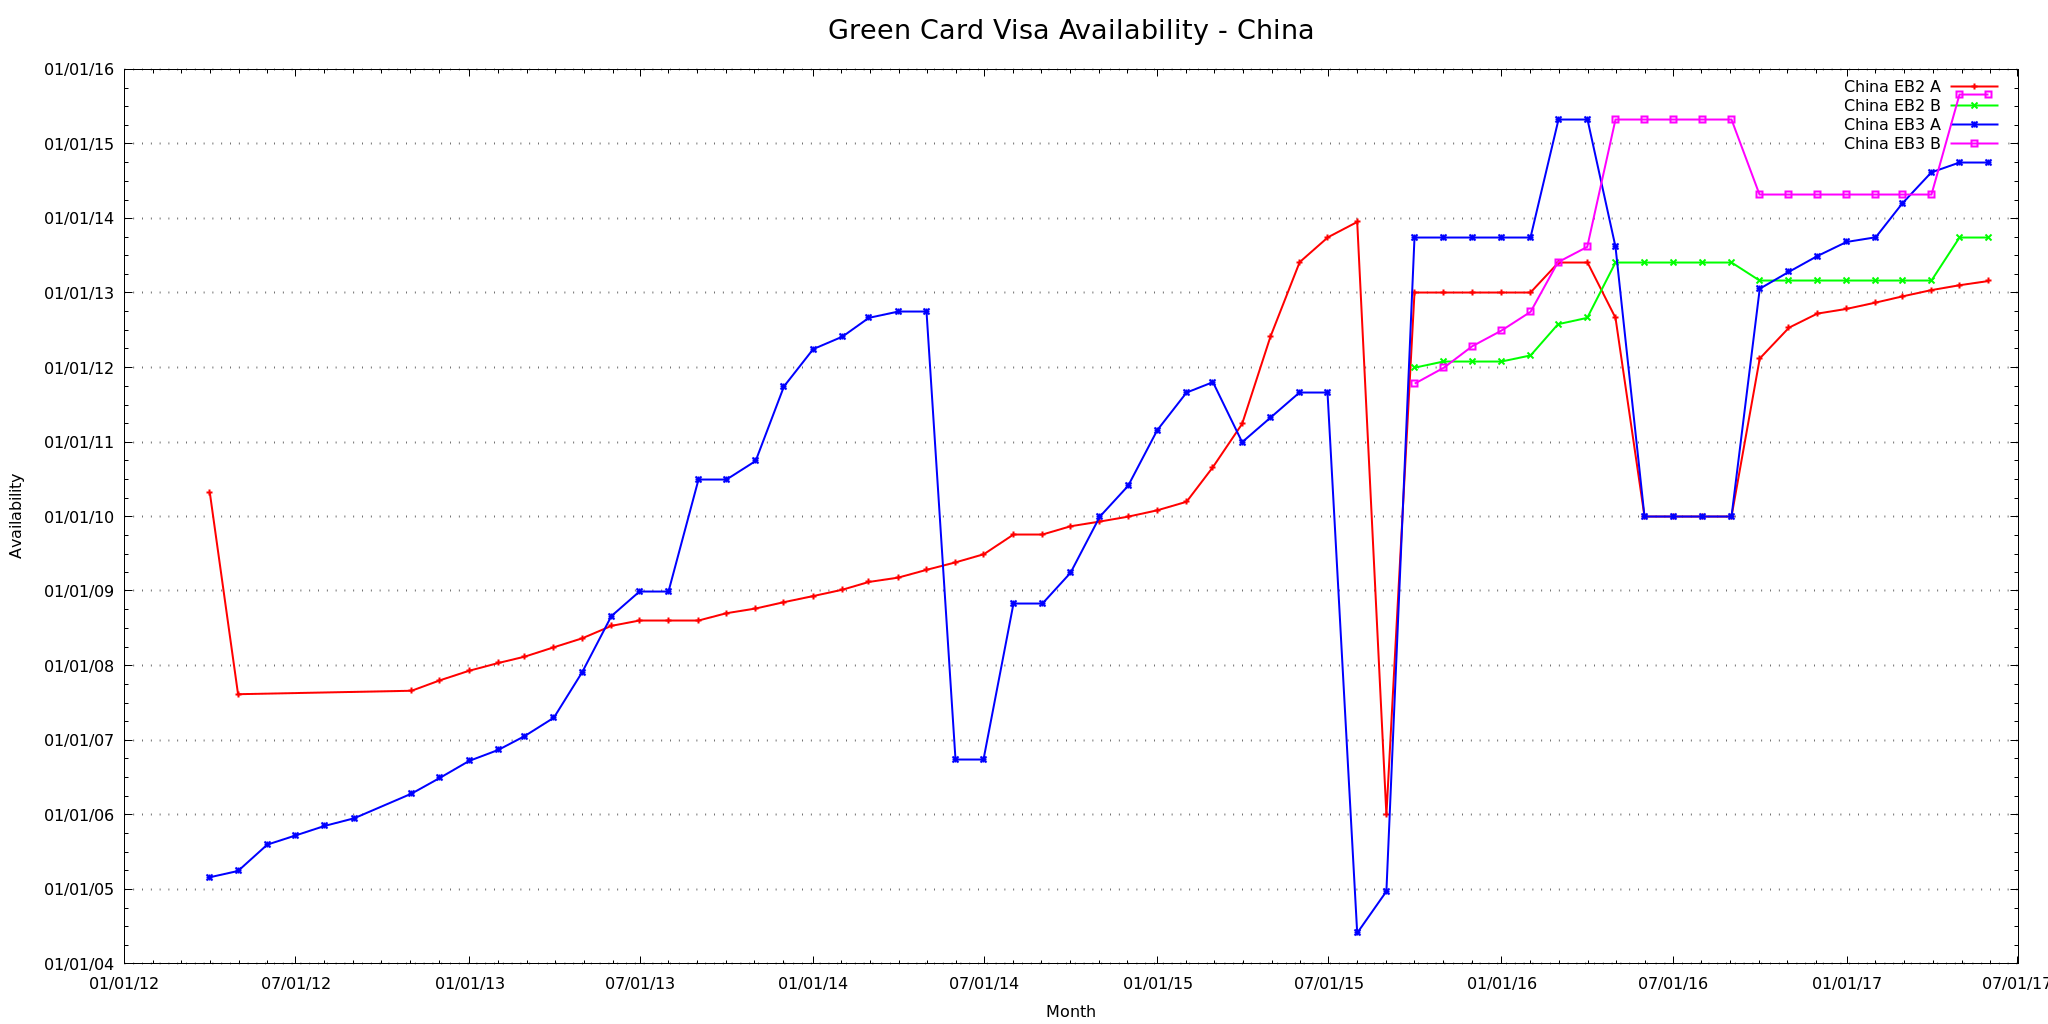
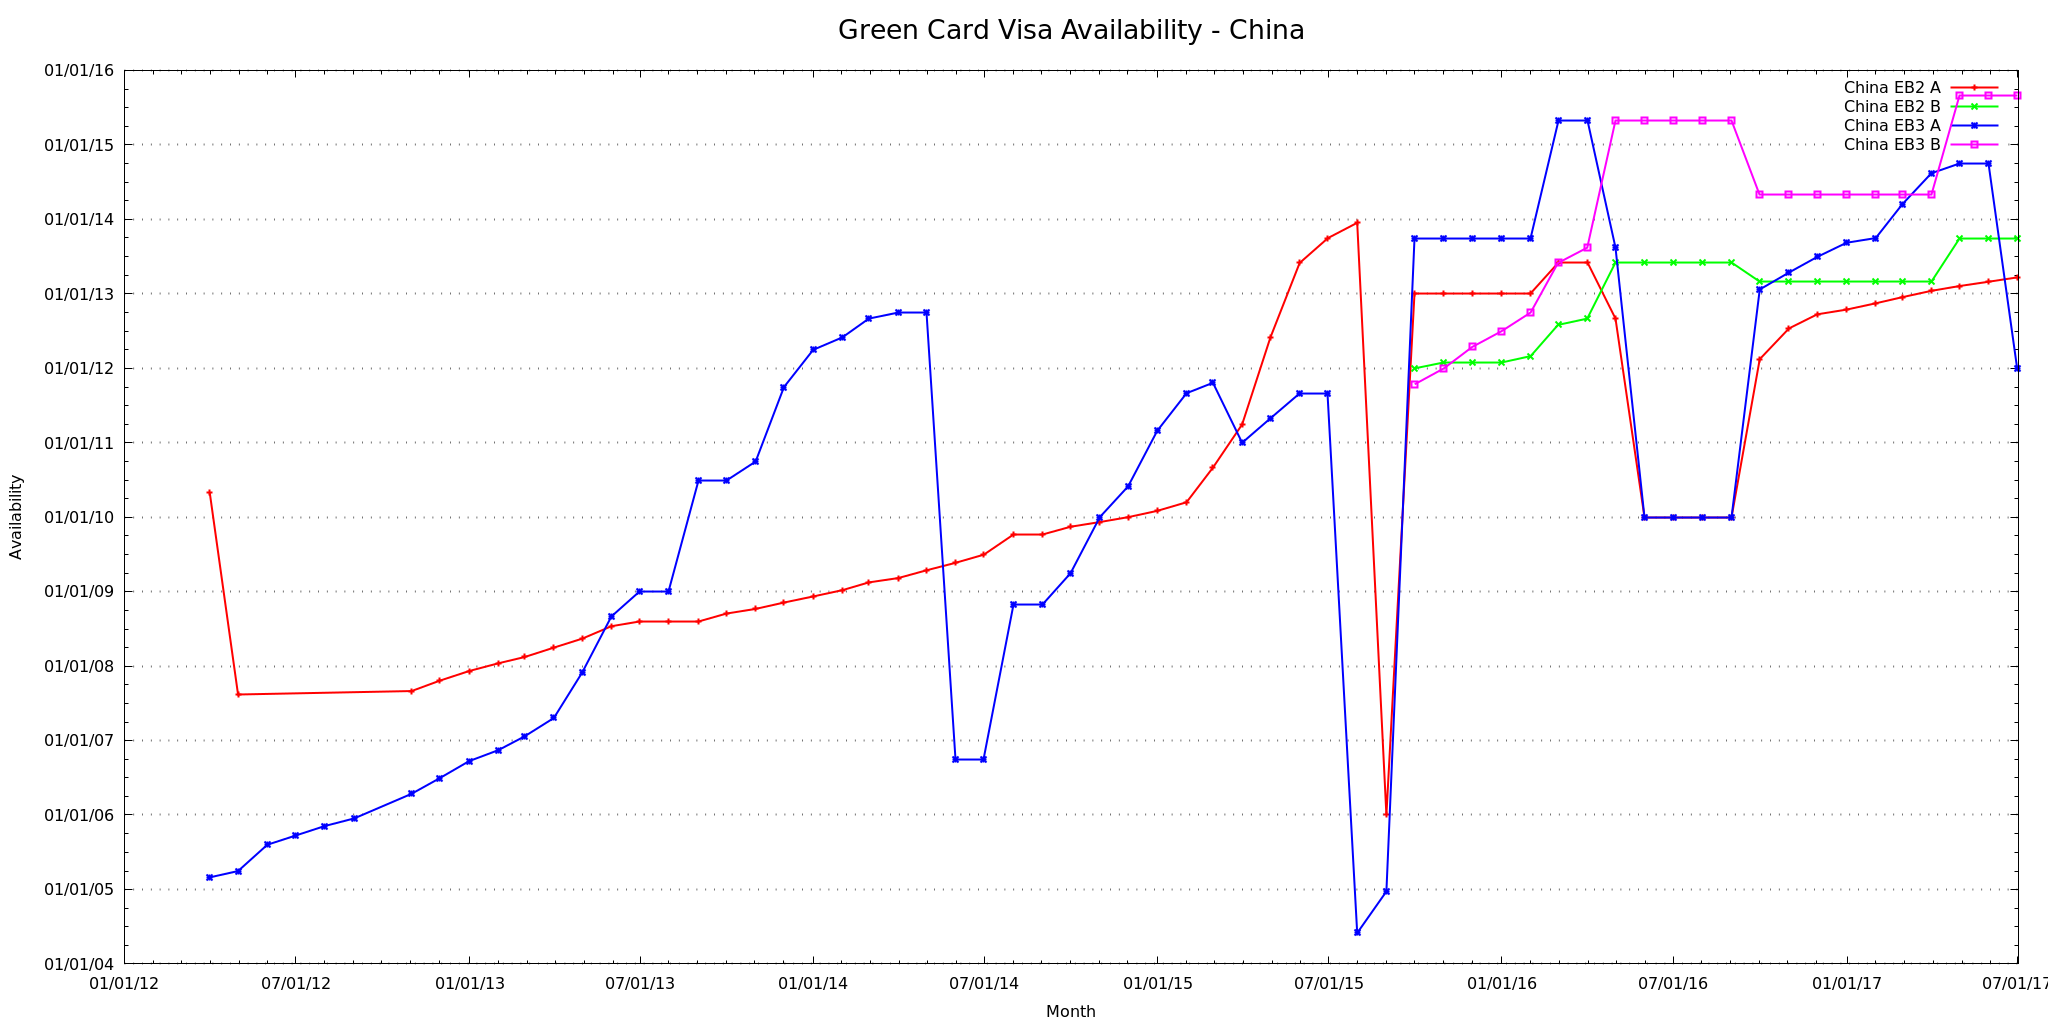
2017 July.

diff --git a/plotting/google-charts/charts.html b/plotting/google-charts/charts.html
@@ -80,6 +80,7 @@ data.addColumn('date', 'EB3 B');
 [new Date(2017, 03, 01), new Date(2013, 00, 15), new Date(2013, 02, 01), new Date(2014, 07, 15), new Date(2014, 04, 01), ],
 [new Date(2017, 04, 01), new Date(2013, 01, 08), new Date(2013, 09, 01), new Date(2014, 09, 01), new Date(2015, 08, 01), ],
 [new Date(2017, 05, 01), new Date(2013, 02, 01), new Date(2013, 09, 01), new Date(2014, 09, 01), new Date(2015, 08, 01), ],
+[new Date(2017, 06, 01), new Date(2013, 02, 22), new Date(2013, 09, 01), new Date(2012, 00, 01), new Date(2015, 08, 01), ],
 
   ]);
 
@@ -167,6 +168,7 @@ data.addColumn('date', 'EB3 B');
 [new Date(2017, 03, 01), new Date(2008, 05, 22), new Date(2009, 03, 22), new Date(2005, 02, 24), new Date(2005, 06, 01), ],
 [new Date(2017, 04, 01), new Date(2008, 05, 22), new Date(2009, 01, 01), new Date(2005, 02, 25), new Date(2006, 03, 22), ],
 [new Date(2017, 05, 01), new Date(2008, 06, 01), new Date(2009, 01, 01), new Date(2005, 04, 15), new Date(2006, 03, 22), ],
+[new Date(2017, 06, 01), new Date(2008, 06, 22), new Date(2009, 01, 01), new Date(2006, 01, 15), new Date(2006, 09, 01), ],
 
   ]);
 
@@ -254,6 +256,7 @@ data.addColumn('date', 'EB3 B');
 [new Date(2017, 03, 01), undefined, undefined, new Date(2017, 01, 15), undefined, ],
 [new Date(2017, 04, 01), undefined, undefined, new Date(2017, 02, 15), undefined, ],
 [new Date(2017, 05, 01), undefined, undefined, new Date(2017, 03, 15), undefined, ],
+[new Date(2017, 06, 01), undefined, undefined, new Date(2017, 05, 08), undefined, ],
 
   ]);
 
@@ -341,6 +344,7 @@ data.addColumn('date', 'EB3 B');
 [new Date(2017, 03, 01), undefined, undefined, new Date(2012, 08, 15), new Date(2013, 08, 01), ],
 [new Date(2017, 04, 01), undefined, undefined, new Date(2013, 00, 01), new Date(2014, 06, 01), ],
 [new Date(2017, 05, 01), undefined, undefined, new Date(2013, 04, 01), new Date(2014, 06, 01), ],
+[new Date(2017, 06, 01), undefined, undefined, new Date(2014, 04, 15), new Date(2015, 06, 01), ],
 
   ]);
 

diff --git a/README.md b/README.md
@@ -27,7 +27,7 @@ The program will spit out `VisaBulletin.csv` and `VisaBulletinUnpivoted.csv`.  T
 
 TODO:
 - Plotting using Haskell?
-- Need another scraper for <= 2012 march.
+- Need another scraper for <= Mar 2012.
 - Oct 2012 is skipped - it has an irregular URL.
 - Find URLs from https://travel.state.gov/content/visas/en/law-and-policy/bulletin.html .
 - plotting/google-charts/extract-for-google-charts.pl can be improved.
